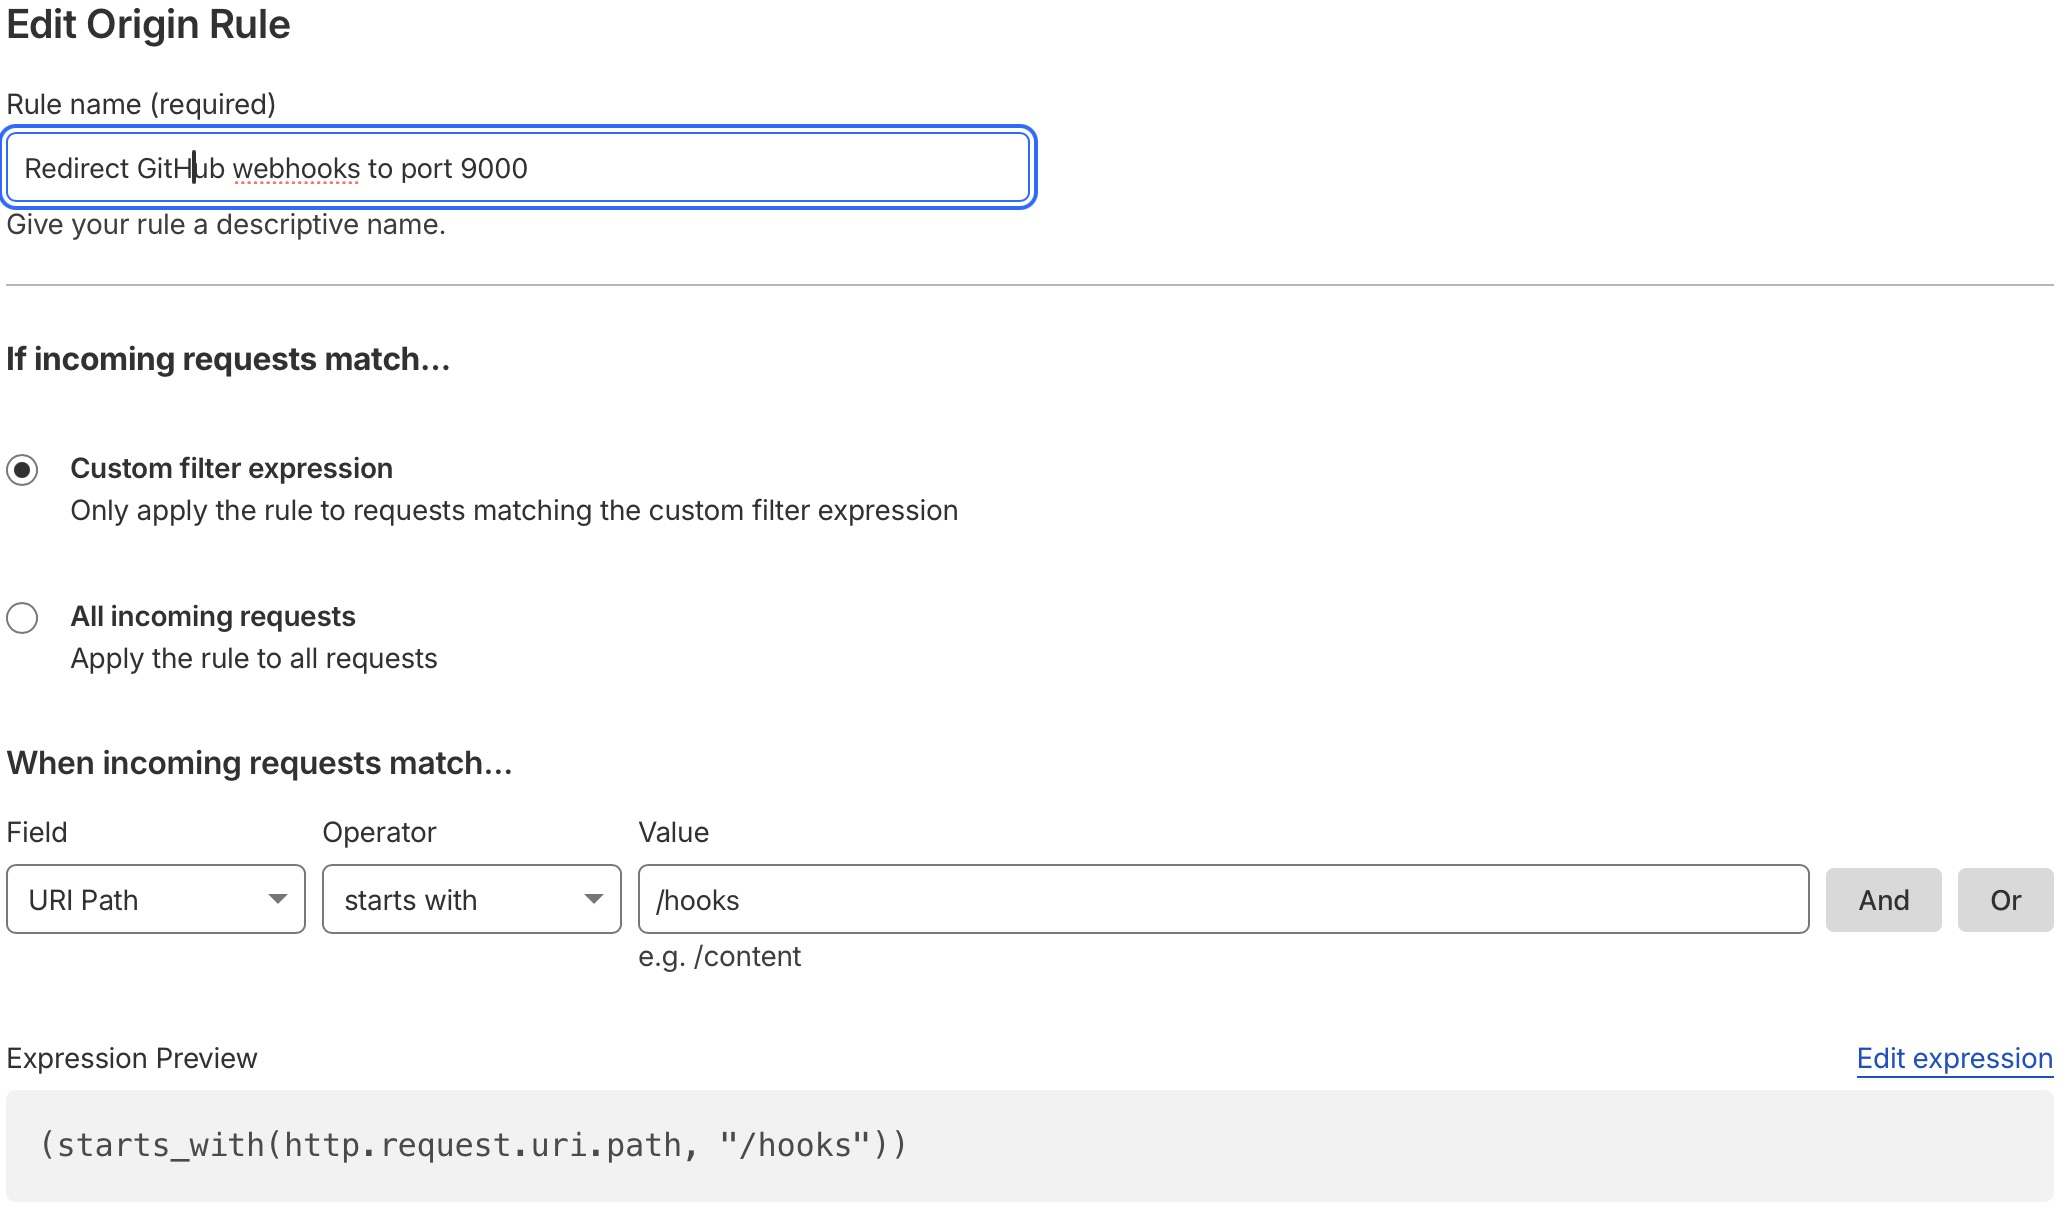
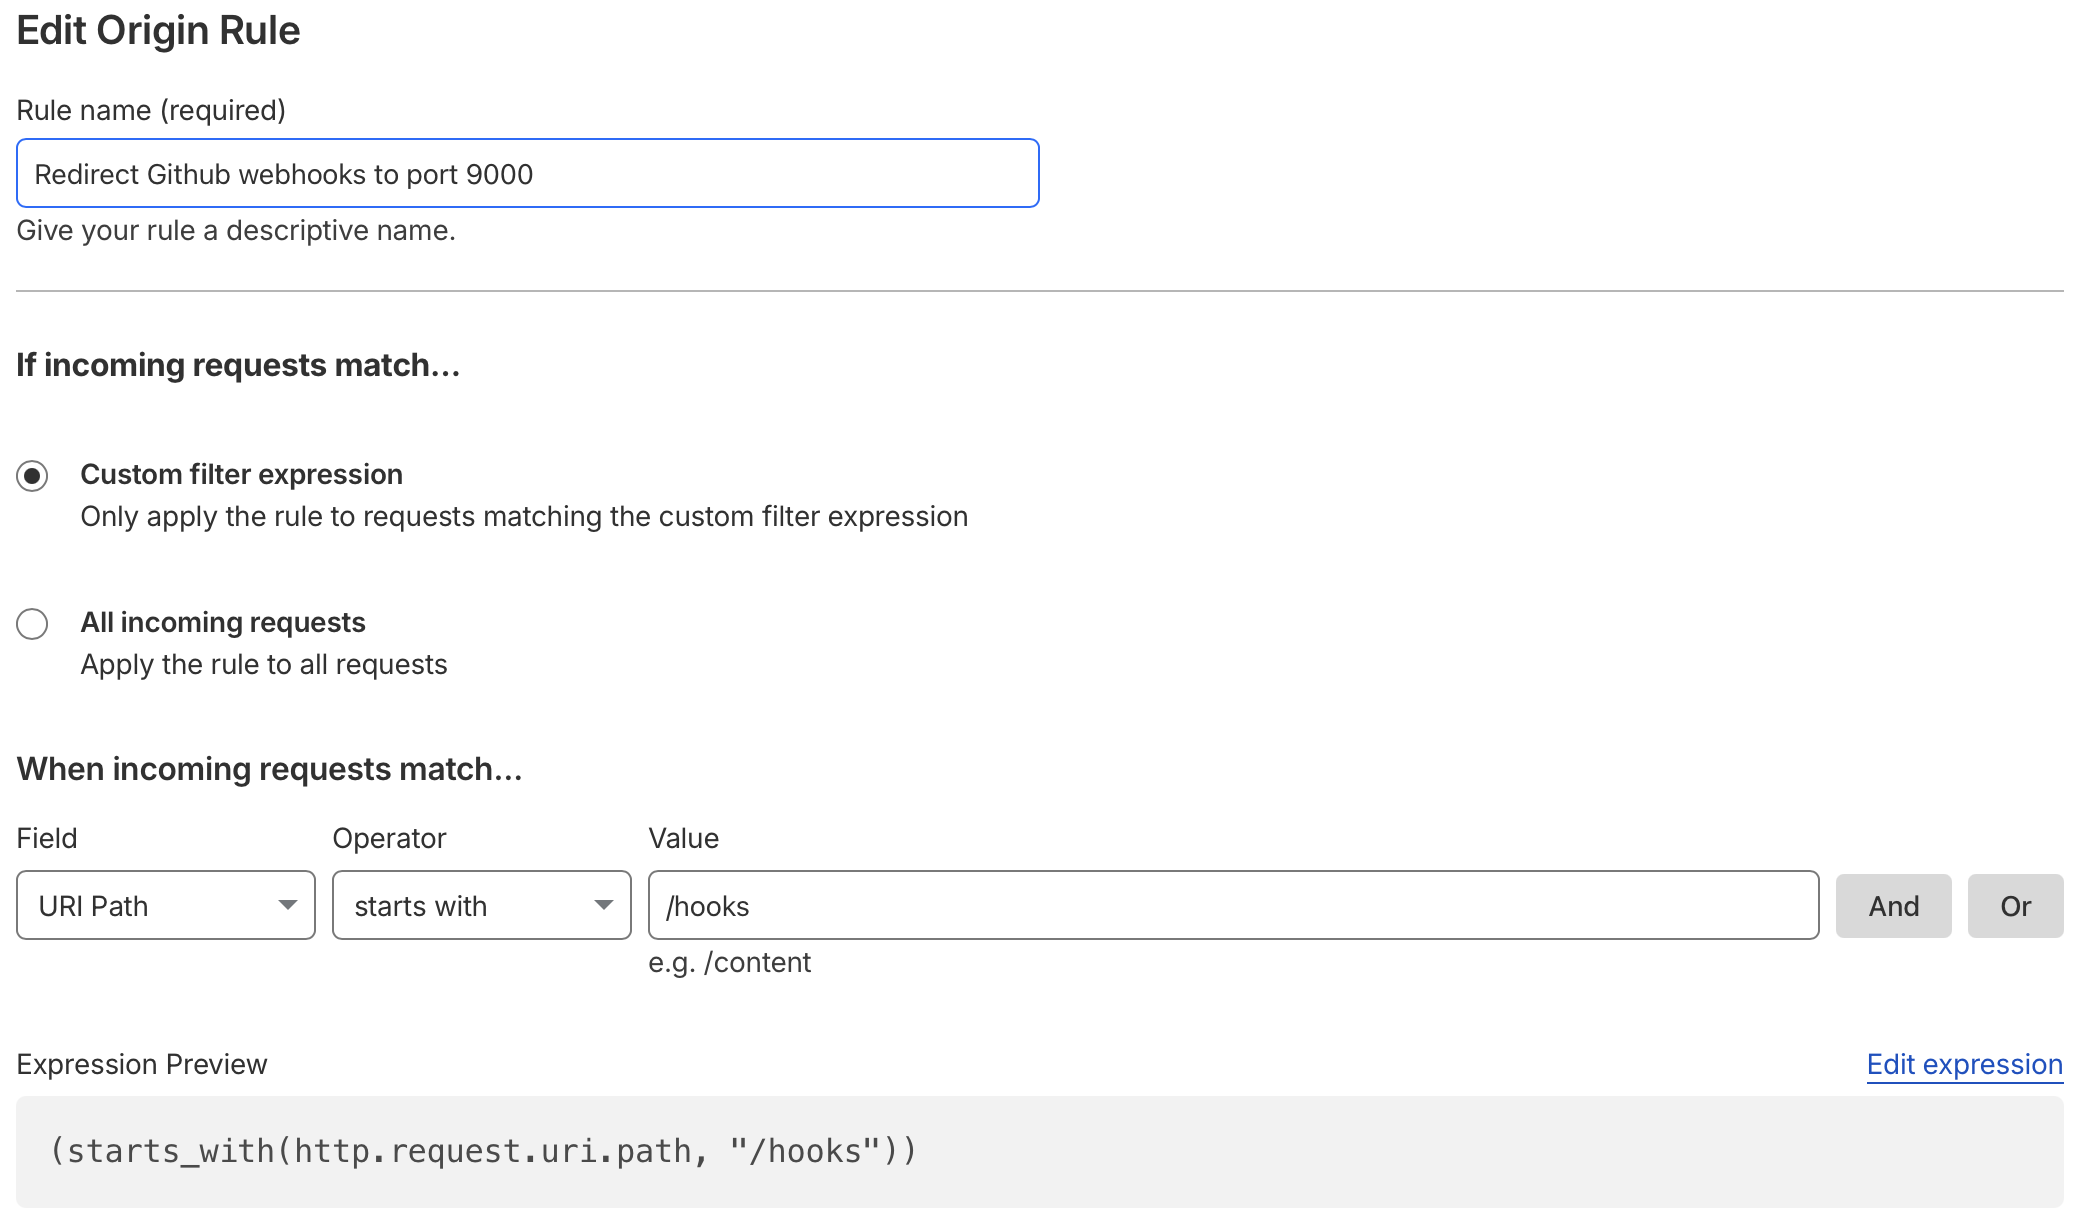
update blog post

diff --git a/content/blog/2026/06/public-infrastructure-project-part-1/index.md b/content/blog/2026/06/public-infrastructure-project-part-1/index.md
@@ -21,11 +21,11 @@ enough for me. There's also Jekyll but I'm not a Ruby programmer, and I already 
 link my [GitHub repository](https://github.com/iambryant/public-infrastructure-playbook) which contains the
 Ansible playbooks I've written for configuring this website. It pretty much does this:
 
-- Run site.yml, which contains base configuration tasks such as:
+- Run `site.yml`, which contains base configuration tasks such as:
   - Configuring the firewall
   - Configuring NTP
   - Configuring sshd
-- Run deploy_hugo.yml, which:
+- Run `configure_dmz_web.yml`, which:
   - Configures the firewall to only allow traffic from Cloudflare's [IP Ranges](https://www.cloudflare.com/ips/)
     (will explain more later about this)
   - Installs and configures certbot to generate certs for the webserver before apache is configured
@@ -36,9 +36,8 @@ Ansible playbooks I've written for configuring this website. It pretty much does
 
 ## External Steps
 
-We've coverted the CD part of CI/CD, but I still haven't covered CI. For that, I use GitHub's Actions and Runners to
-do the heavy listing. My current
-[GitHub workflow](https://github.com/iambryant/xserve-cc/blob/main/.github/workflows/ci.yml) currently consists of two
+I use GitHub's Actions and Runners to handle any changes I make to my website code. My current
+[GitHub workflow](https://github.com/iambryant/xserve-cc/blob/main/.github/workflows/ci.yml) consists of two
 jobs:
 
 ```yaml
@@ -70,39 +69,25 @@ jobs:
 The first is self-explanatory; it lints the markdown files in my Hugo source repository to make sure I formatted
 everything correctly.
 
-The second job deploys the code by sending a webhook to my webserver. The deployment script that it uses is pretty simple:
+The second job deploys the code by sending a webhook to my webserver. The deployment script that it uses is pretty
+simple:
 
 ```shell
 #!/bin/sh
 /usr/bin/git clone https://github.com/iambryant/xserve-cc.git /var/webhook/xserve-cc
-sudo /usr/local/bin/hugo -s /var/webhook/xserve-cc -d /var/www/html --cleanDestinationDir > hugo.log 2>&1
+/usr/local/bin/hugo -s /var/webhook/xserve-cc -d /var/www/html --cleanDestinationDir > hugo.log 2>&1
 /usr/bin/rm -rf /var/webhook/xserve-cc
 ```
 
 The repository is cloned to the webhook user's home directory, deployed with Hugo, and then cleaned out. I could
 technically do this in the GitHub workflow if I wanted the Hugo deployment to be more portable, since Hugo just converts
-all the markdown files to HTML, and the webserver wouldn't need Hugo. I was kind of thinking of doing this as I had the
-idea of rotating the blog daily to different operating systems such as AIX, HP-UX, and Solaris as a novelty, but not for
-now.
+all the markdown files to HTML, and the webserver wouldn't need Hugo. I may eventually rotate the blog between
+AIX, HP-UX, and Solaris hosts, so having just the HTML files on them would be cleaner than attempting to get Hugo
+running on each OS.
 
-Anyway, since the webhook user is deploying to a protected directory `/var/www/html`, make sure you give it sudo
-privileges, like this:
+## Architectural Decisions
 
-```yaml
-- name: "Ensure webhook user can run hugo with sudo"
-  community.general.sudoers:
-    name: 90-webhook-users
-    state: present
-    user: webhook
-    commands: "/usr/local/bin/hugo -s /var/webhook/xserve-cc -d /var/www/html --cleanDestinationDir"
-    nopassword: true
-```
-
-Ideally you'd restrict the sudo command(s) to the exact commands you'd use in the deployment script for security.
-
-## Reachability
-
-We've covered the CI and CD steps of the deployment pipeline, but we can still make this more secure. Initially I
+Now that I've covered the deployment pipeline, I can talk about some problems I encountered. Initially I
 thought of restricting the IPs that could trigger the webhook to the GitHub Actions runner IP ranges at
 [GitHub's public API endpoint](https://api.github.com/meta), like this:
 
@@ -113,7 +98,7 @@ thought of restricting the IPs that could trigger the webhook to the GitHub Acti
     method: GET
     return_content: true
   register: github_cidr_blocks_raw
-  run_once: true # To prevent hammering GitHub's API server if running on multiple hosts
+  run_once: true # To prevent hammering GitHub's servers if running on multiple hosts
 
 - name: "Ensure GitHub's CIDR blocks are set as facts"
   ansible.builtin.set_fact:
@@ -166,7 +151,7 @@ traffic from Cloudflare's IP ranges, not GitHub's:
     url: https://www.cloudflare.com/ips-v4
     return_content: true
   register: cloudflare_cidr_blocks_v4_raw
-  run_once: true
+  run_once: true # To prevent hammering Cloudflare's servers if running on multiple hosts
 
 - name: "Fetch Cloudflare's CIDR blocks (IPv6)"
   ansible.builtin.uri:
@@ -183,7 +168,7 @@ traffic from Cloudflare's IP ranges, not GitHub's:
   register: github_cidr_blocks_raw
   run_once: true
 
-- name: "Set Cloudflare and GitHub structured list variables"
+- name: "Ensure GitHub's CIDR blocks are set as facts"
   ansible.builtin.set_fact:
     cloudflare_cidr_blocks_v4: "{{ cloudflare_cidr_blocks_v4_raw.content.splitlines() }}"
     cloudflare_cidr_blocks_v6: "{{ cloudflare_cidr_blocks_v6_raw.content.splitlines() }}"
@@ -219,17 +204,17 @@ traffic from Cloudflare's IP ranges, not GitHub's:
 ```
 
 There still however was one more issue: the webserver was not receiving webhooks sent by GitHub runners. By default,
-the webhook service listens on port 9000. Cloudflare, being designed for web traffic, sees it as a non standard port
+the webhook service listens on port 9000. Cloudflare, being designed for web traffic, sees it as a non-standard port
 and drops it. There's multiple ways you could solve this, such as:
 
 - Changing the webhook to listen on a different HTTP/HTTPS port that doesn't conflcit with the webserver but is still
-  supported by Cloudflare, such as 8443
-- Creating an origin rule so that HTTP/HTTPS requests set by GitHub were rewritten to port 9000
+  supported by Cloudflare, such as 8443 (you would need to specify this in your webhook URL since it's nonstandard)
+- Creating an origin rule so that HTTP/HTTPS requests sent by GitHub get rewritten to port 9000
 
 I went with the second option out of preference. The way I did it was through Cloudflare's
 [origin rules:](https://developers.cloudflare.com/rules/origin-rules/)
 
-![Cloudflare origin rules](cloudflare-origin-rule.jpg)
+![Cloudflare origin rule](cloudflare-origin-rule.jpg)
 
 Essentially, you tell Cloudflare to redirect URL paths starting with `/hooks` (the url the webhook service accepts
 webhooks on) to port 9000. Whether GitHub sends it as HTTP or HTTPS, as long as it's a valid port to Cloudflare,